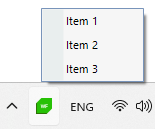
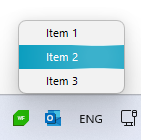
Update context menu image

diff --git a/controls/notifyicon/structure.md b/controls/notifyicon/structure.md
@@ -10,25 +10,29 @@ position: 1
 
 # Structure
 
-This article describes the structure of **RadNotifyIcon**.
+**RadNotifyIcon** is a component that adds an icon to the Windows notification area inside the taskbar. This article describes the structure of **RadNotifyIcon**.
+
+## Popup
+
+**PopupContent** appears upon interacting with the icon and can host any Control.
 
 ![RadNotifyIcon](images/radnotifyicon-structure001.png)
 
-* **RadNotifyIcon** is a component that adds an icon to the Windows notification area inside the taskbar.
-
-* **PopupContent** appear upon interacting with the icon and can host any Control.
-
 ## Balloon
 
-* The balloon has a native Windows look and feel.
+The balloon has a native Windows look and feel.
 
 ![RadNotifyIcon](images/radnotifyicon-structure002.png)
 
-## Context Menu and Tooltip
+## Context Menu  
 
-* The context menu and tooltip also have a native Windows look and feel.
+The context menu offers the style coming from the applied theme.
 
 ![RadNotifyIcon's Context Menu](images/radnotifyicon-structure003.png)
+
+## Tooltip
+
+The tooltip has native look and feel coming from the operating system.
 
 ![RadNotifyIcon's Tooltip](images/radnotifyicon-structure004.png)
  
